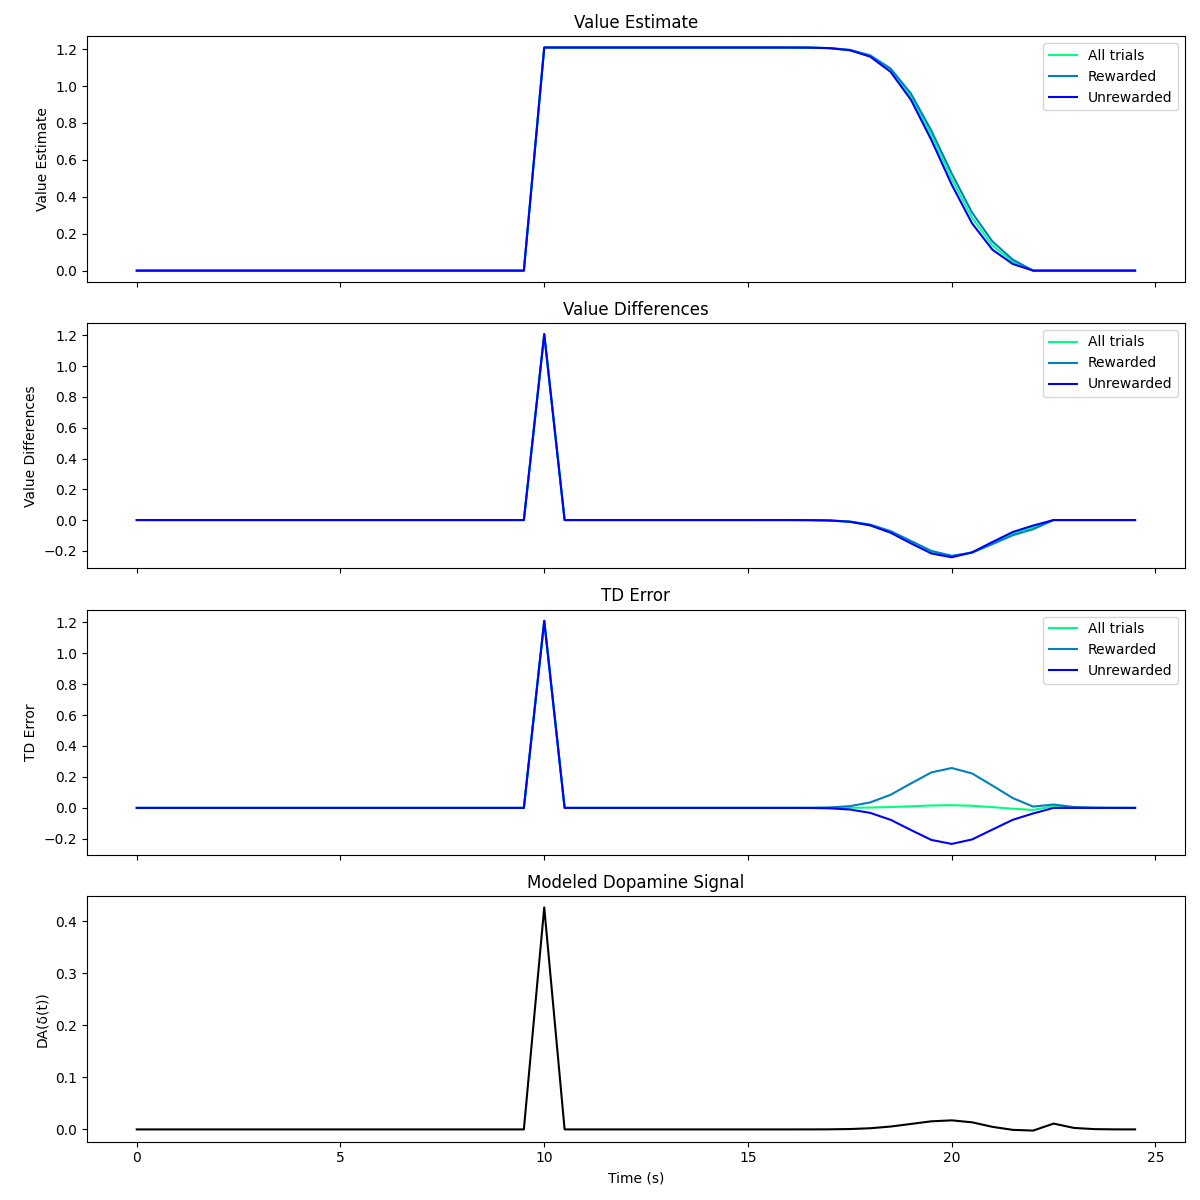
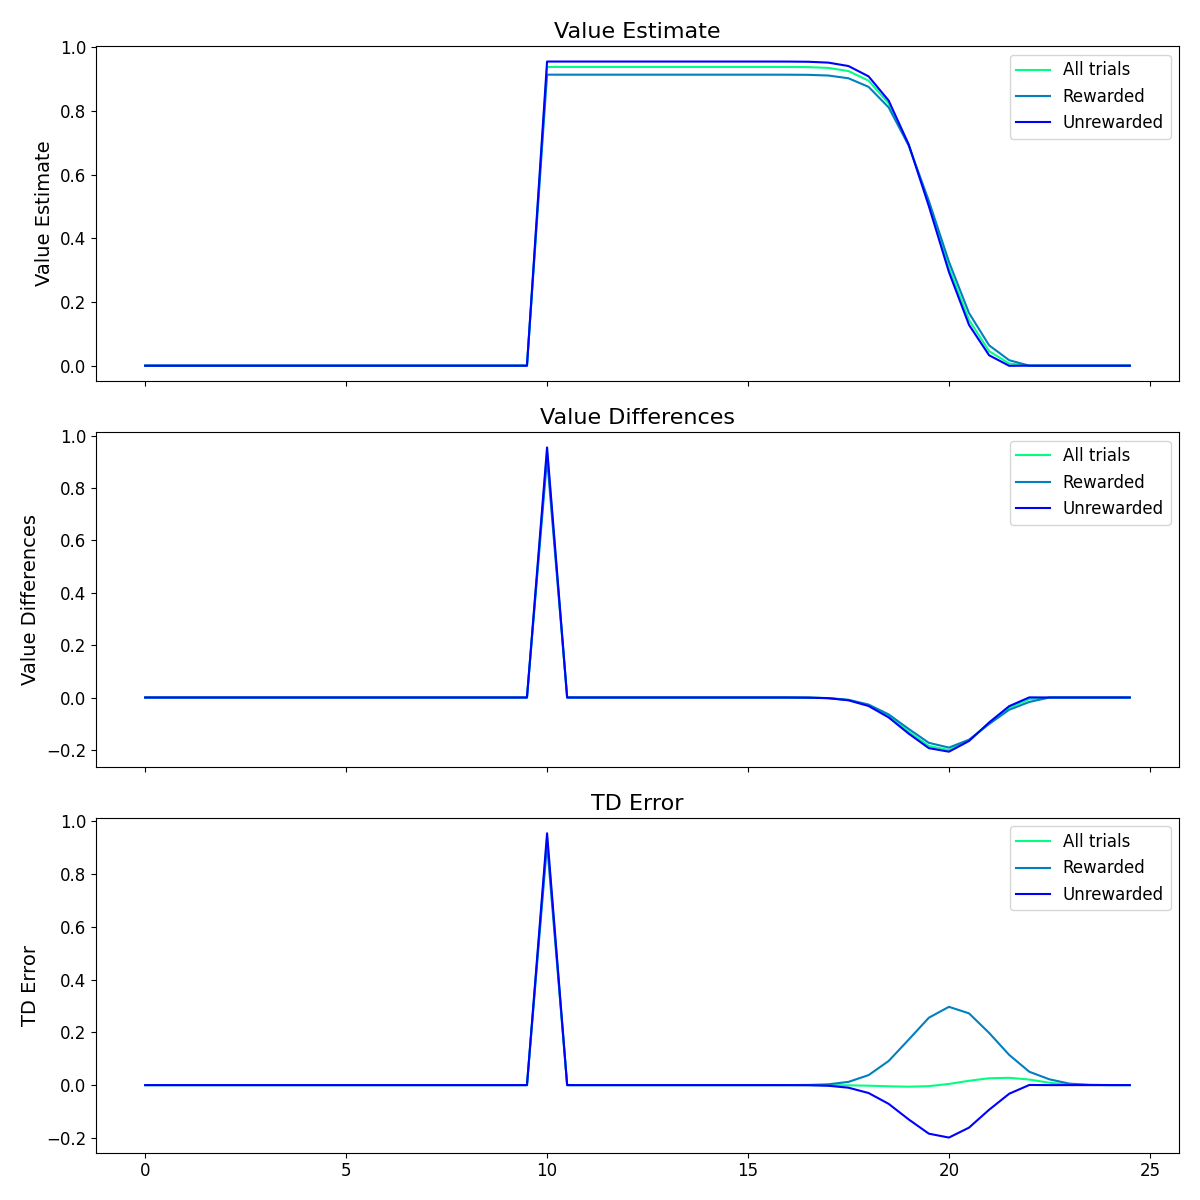
Good dopamine activity response

diff --git a/td_learning_v4.py b/td_learning_v4.py
@@ -2,6 +2,15 @@ import numpy as np
 import matplotlib.pyplot as plt
 from copy import deepcopy
 
+plt.rcParams.update({
+    'font.size': 14,
+    'axes.labelsize': 14,
+    'axes.titlesize': 16,
+    'xtick.labelsize': 12,
+    'ytick.labelsize': 12,
+    'legend.fontsize': 12
+})
+
 # TD LEARNING FUNCTIONS #
 def stimulus_function(t):
     return 1.0 if np.isclose(t, 10.0) else 0.0
@@ -182,7 +191,7 @@ def exercise_4():
 def plot_partial_reinforcement_results(time_points, analysis_results, p):
     """Plot results from partial reinforcement analysis"""
     
-    fig, axes = plt.subplots(4, 1, figsize=(12, 12), sharex=True)
+    fig, axes = plt.subplots(3, 1, figsize=(12, 12), sharex=True)
     
     # Plot value estimates
     axes[0].plot(time_points, analysis_results['values'][0], color=plt.cm.winter(1.0), label='All trials')
@@ -209,16 +218,28 @@ def plot_partial_reinforcement_results(time_points, analysis_results, p):
     axes[2].legend()
     
     # Plot dopamine signal
-    axes[3].plot(time_points, analysis_results['dopamine'], color='black')
-    axes[3].set_xlabel('Time (s)')
-    axes[3].set_ylabel('DA(δ(t))')
-    axes[3].set_title('Modeled Dopamine Signal')
+    #axes[3].plot(time_points, analysis_results['dopamine'], color='black')
+    #axes[3].set_xlabel('Time (s)')
+    #axes[3].set_ylabel('DA(δ(t))')
+    #axes[3].set_title('Modeled Dopamine Signal')
     
     plt.tight_layout()
     plt.savefig(f'results/partial_reinforcement_p{p}.png')
     plt.show()
     
     return fig
+
+def plot_dopamine_trajectory(time_points, analysis_results, p):
+    plt.figure(figsize=(12, 4))
+    plt.plot(time_points, analysis_results['dopamine'], color='black')
+    plt.xlabel('Time (s)')
+    plt.ylabel('DA(δ(t))')
+    plt.title('Modeled Dopamine Signal')
+    
+    plt.savefig(f'results/dopamine_activity_p{p}.png')
+    plt.show()
+    
+    return plt.gcf()
 
 def analyze_last_100_trials(time_points, values_history, value_differences, td_errors_history, reward_present):
     """Analyze results from last 100 trials"""
@@ -261,13 +282,13 @@ def analyze_last_100_trials(time_points, values_history, value_differences, td_e
     }
     
 def exercise_5():
-    # Exercise 5-6: Run and analyze p=0.5 case
     print("\nRunning partial reinforcement simulation (p=0.5)...")
     time_points, values_history, value_differences, td_errors_history, reward_present = run_partial_reinforcement(p=0.5)
     analysis_results = analyze_last_100_trials(time_points, values_history, value_differences, td_errors_history, reward_present)
     
     plot_partial_reinforcement_results(time_points, analysis_results, p=0.5)
-    plt.show()
+
+    plot_dopamine_trajectory(time_points, analysis_results, p=0.5)
    
 def analyze_dopamine_peaks(p_values, n_trials=1000):
     """Analyze dopamine peaks for different reward probabilities"""
